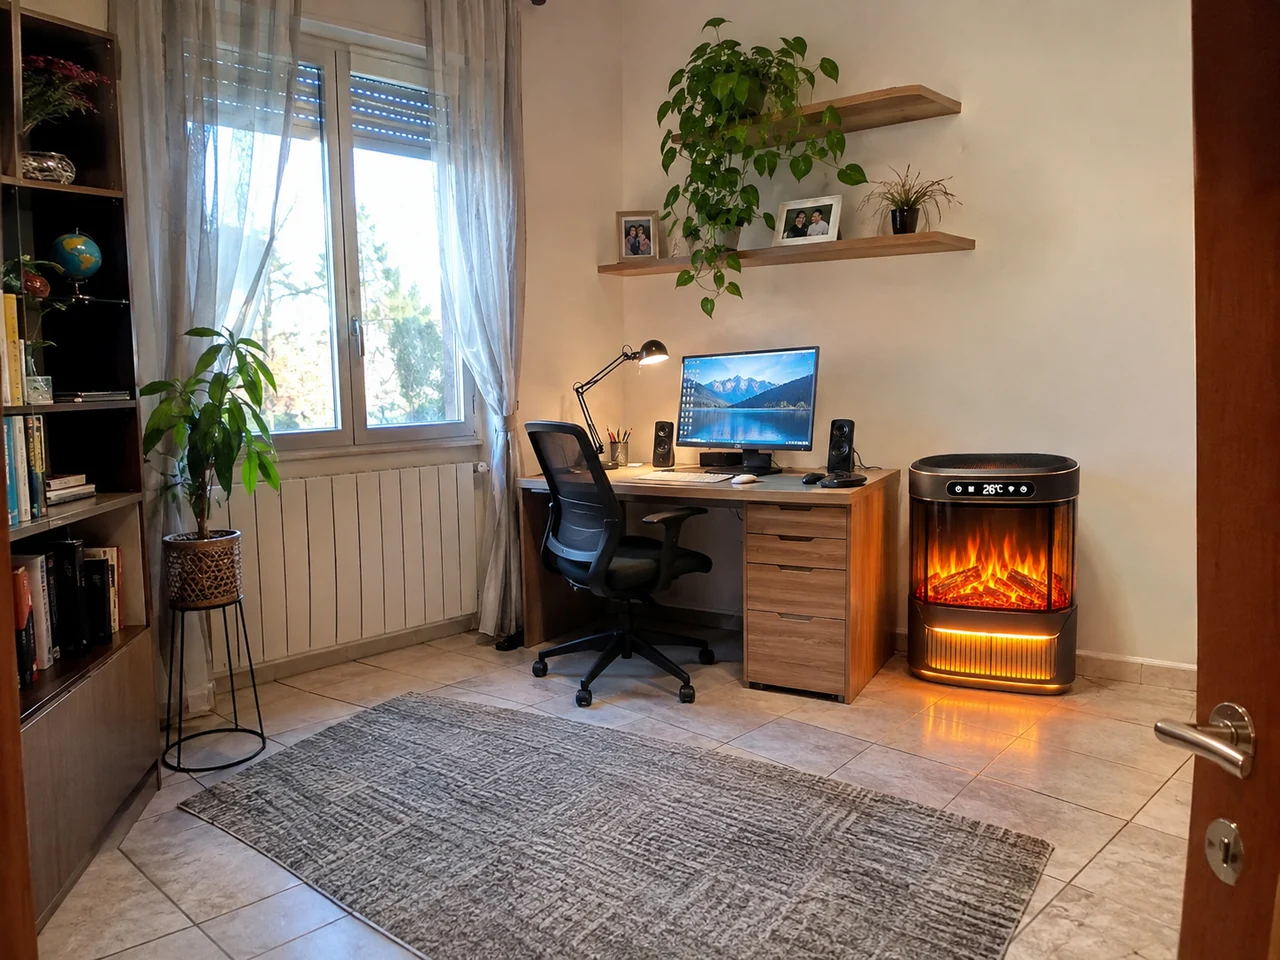
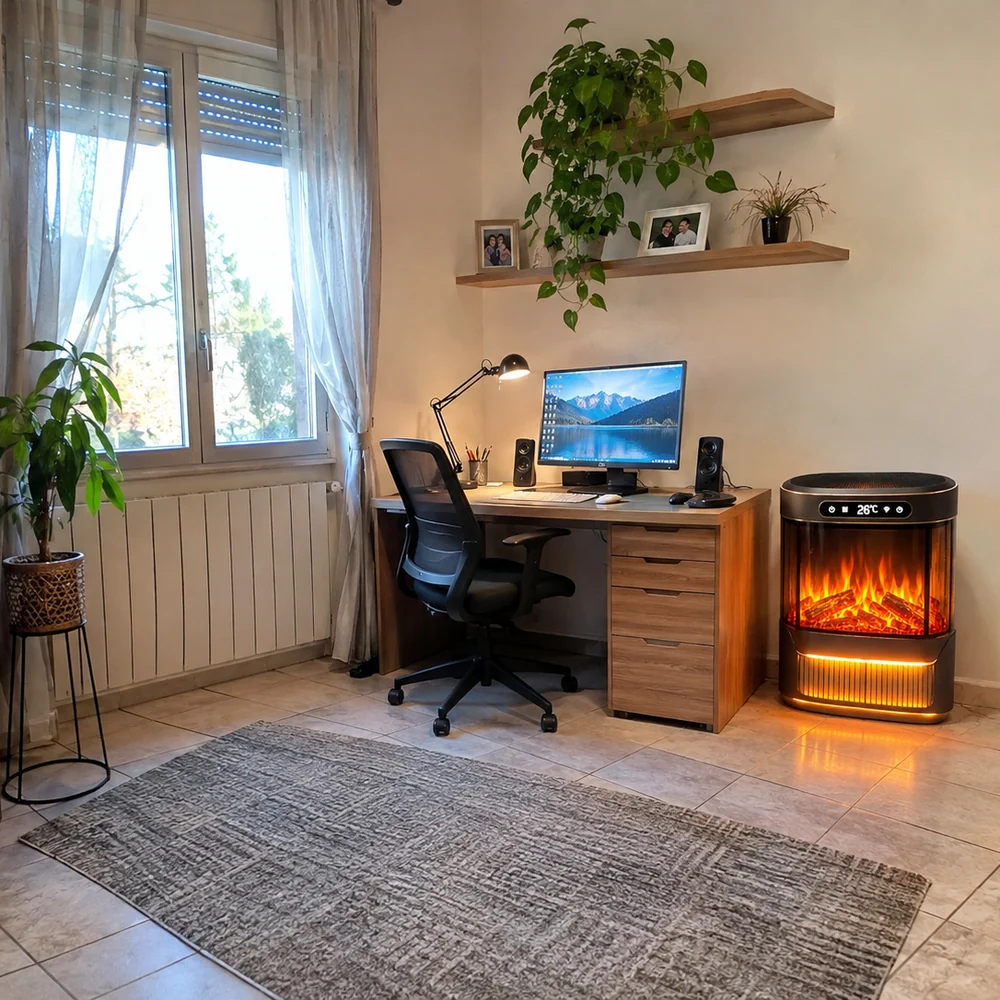
EMBERA: recensioni di nuovo quadrate (slot 1/1, immagini ritagliate a 1000x1000)

diff --git a/it/embera/landing.html b/it/embera/landing.html
@@ -91,7 +91,7 @@ window.SITE_CONFIG = {
 .aex-rev__stars{color:#f5a623;font-size:18px;letter-spacing:2px;margin:0 0 12px}
 .aex-rev__text{font-size:15.5px;line-height:1.6;color:#333;margin:0 0 18px;flex:1}
 .aex-rev__name{font-weight:700;color:#151515;font-size:15px;display:flex;align-items:center;gap:8px}
-.aex-rev__name .v{background:#007e41;color:#fff;font-size:11px;font-weight:700;padding:3px 9px;border-radius:999px;letter-spacing:.02em}.aex-rev__photo{margin:-24px -24px 18px;aspect-ratio:4/3;overflow:hidden;border-radius:16px 16px 0 0;background:#eef2f0}.aex-rev__photo img{width:100%;height:100%;object-fit:cover;display:block}
+.aex-rev__name .v{background:#007e41;color:#fff;font-size:11px;font-weight:700;padding:3px 9px;border-radius:999px;letter-spacing:.02em}.aex-rev__photo{margin:-24px -24px 18px;aspect-ratio:1/1;overflow:hidden;border-radius:16px 16px 0 0;background:#eef2f0}.aex-rev__photo img{width:100%;height:100%;object-fit:cover;display:block}
 /* kit */
 .aex-kit{background:#f4faf6;padding:58px 0}
 .aex-kit__head{text-align:center;max-width:700px;margin:0 auto 26px}
@@ -265,19 +265,19 @@ window.SITE_CONFIG = {
 </div>
 <div class="aex-rev__grid">
 <div class="aex-rev__card">
-<div class="aex-rev__photo"><img src="/assets/img/reviews/embera/chiara.webp?v=4" alt="EMBERA accesa in salotto, foto di una cliente" loading="lazy" width="1280" height="960"></div>
+<div class="aex-rev__photo"><img src="/assets/img/reviews/embera/chiara.webp?v=5" alt="EMBERA accesa in salotto, foto di una cliente" loading="lazy" width="1000" height="1000"></div>
 <div class="aex-rev__stars">★★★★★</div>
 <p class="aex-rev__text">Vivo in affitto e non potevo mettere una stufa fissa. La attacco la sera in salotto ed è calda in pochi minuti — e la fiamma fa davvero atmosfera. Ho smesso di accendere la caldaia per tutta la casa.</p>
 <div class="aex-rev__name">Chiara M. <span class="v">✔ Acquisto verificato</span></div>
 </div>
 <div class="aex-rev__card">
-<div class="aex-rev__photo"><img src="/assets/img/reviews/embera/davide.webp?v=4" alt="EMBERA nello studio di casa, foto di un cliente" loading="lazy" width="1280" height="960"></div>
+<div class="aex-rev__photo"><img src="/assets/img/reviews/embera/davide.webp?v=5" alt="EMBERA nello studio di casa, foto di un cliente" loading="lazy" width="1000" height="1000"></div>
 <div class="aex-rev__stars">★★★★★</div>
 <p class="aex-rev__text">Lo studio era sempre la stanza più fredda. Ora lavoro al caldo senza far salire la bolletta di tutta la casa: scaldo solo dove sto. Il telecomando è comodissimo, regolo tutto dalla scrivania.</p>
 <div class="aex-rev__name">Davide R. <span class="v">✔ Acquisto verificato</span></div>
 </div>
 <div class="aex-rev__card">
-<div class="aex-rev__photo"><img src="/assets/img/reviews/embera/franca.webp?v=4" alt="EMBERA con la fiamma 3D accesa in soggiorno" loading="lazy" width="1280" height="960"></div>
+<div class="aex-rev__photo"><img src="/assets/img/reviews/embera/franca.webp?v=5" alt="EMBERA con la fiamma 3D accesa in soggiorno" loading="lazy" width="1000" height="1000"></div>
 <div class="aex-rev__stars">★★★★★</div>
 <p class="aex-rev__text">Volevo un camino da una vita, ma in condominio è impossibile. Questo è la cosa più simile: caldo vero e la fiamma che sembra accesa. E con i nipoti in giro mi sento tranquilla.</p>
 <div class="aex-rev__name">Franca P. <span class="v">✔ Acquisto verificato</span></div>
